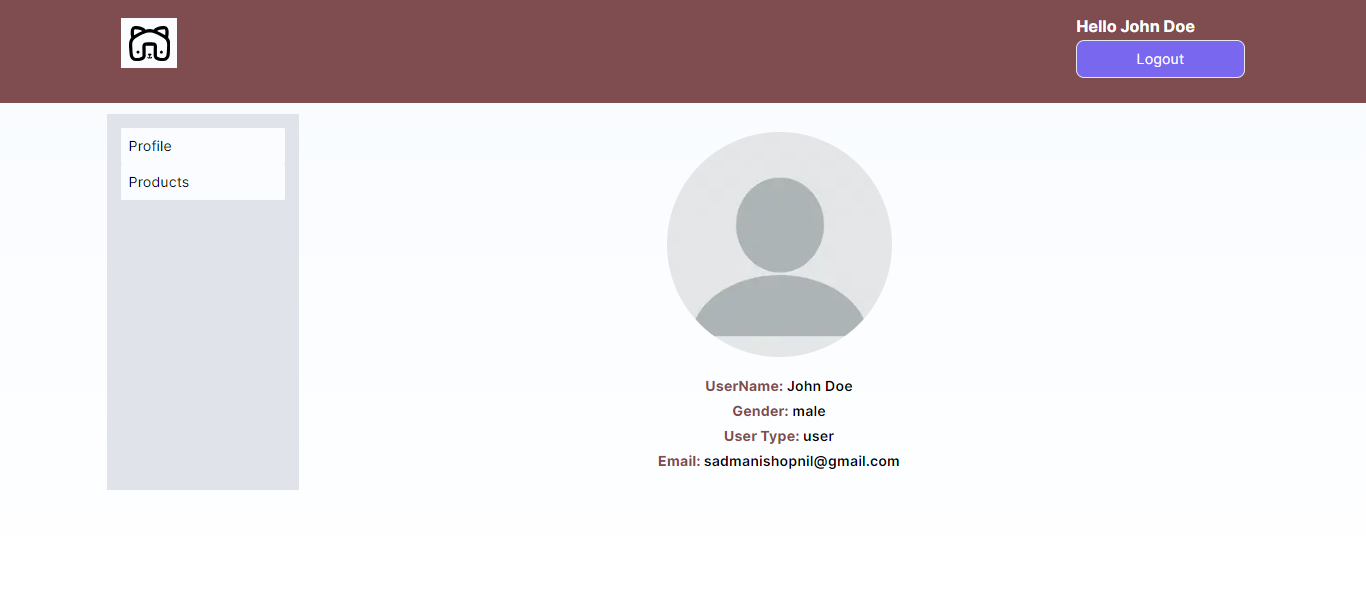
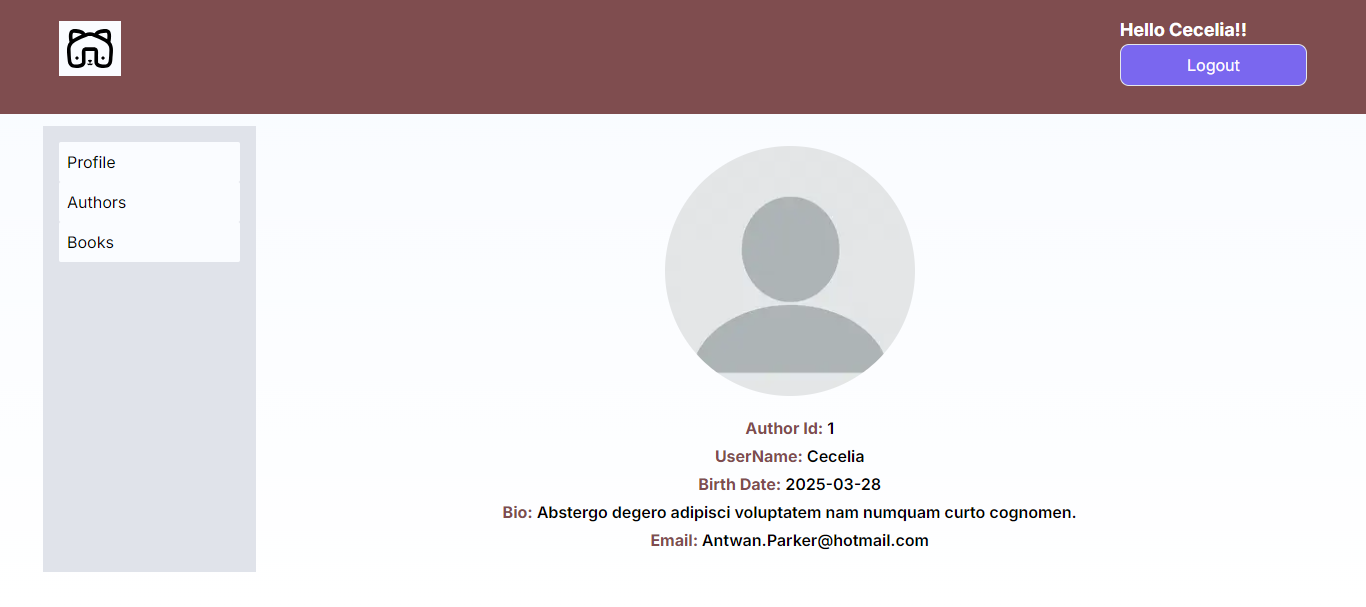
read me of client done

diff --git a/view/README.md b/view/README.md
@@ -6,8 +6,6 @@
 
 **Test**: Jest
 
-**Documentation**: Lucidchart
-
 ## Demo
 
 - **Login page**
@@ -16,31 +14,36 @@
 - **Profile page of User**
   <img src = "public/doc/demo/profilePageOne.png"  >
 
-- **Profile page of Admin**
-  <img src = "public/doc/demo/profilePageTwo.png"  >
+- **All Author Page**
+  <img src = "public/doc/demo/all-author-page.png"  >
 
-- **All Product Page**
-  <img src = "public/doc/demo/showAllProductPage.png"  >
+- **Single Author Page**
+  <img src = "public/doc/demo/single-author-page.png"  >
 
-- **Single Product Page**
-  <img src = "public/doc/demo/singleProductPage.png"  >
+- **All Book Page**
+  <img src = "public/doc/demo/all-book-page.png"  >
 
-- **User List Page**
-  <img src = "public/doc/demo/userListPage.png"  >
+- **Single Book Page**
+  <img src = "public/doc/demo/single-book-page.png"  >
 
 ## Run Locally
 
 Clone the project
 
 ```bash
-  git clone https://github.com/SYShopnil/ATPL-Task.git
+  git clone https://github.com/SYShopnil/m360ict-book-library-task.git
 ```
 
 Go to the project directory
 
 ```bash
   cd
-  ATPL-Task
+  m360ict-book-library-task
+```
+
+```bash
+  cd
+  view
 ```
 
 Install dependencies
